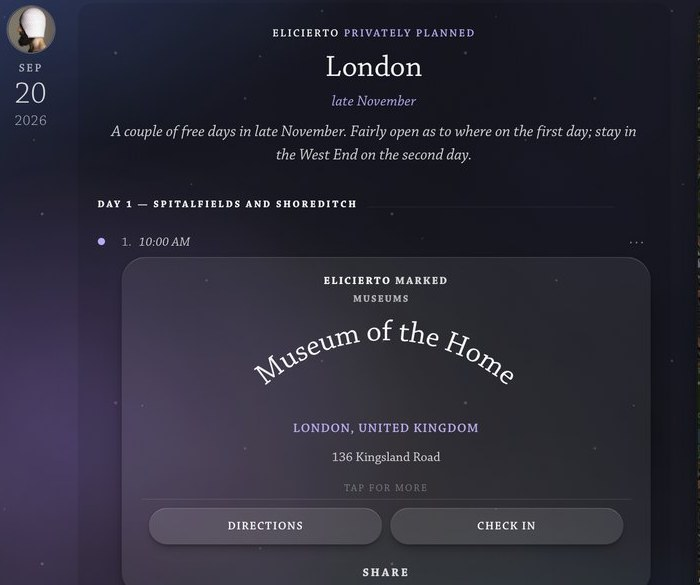
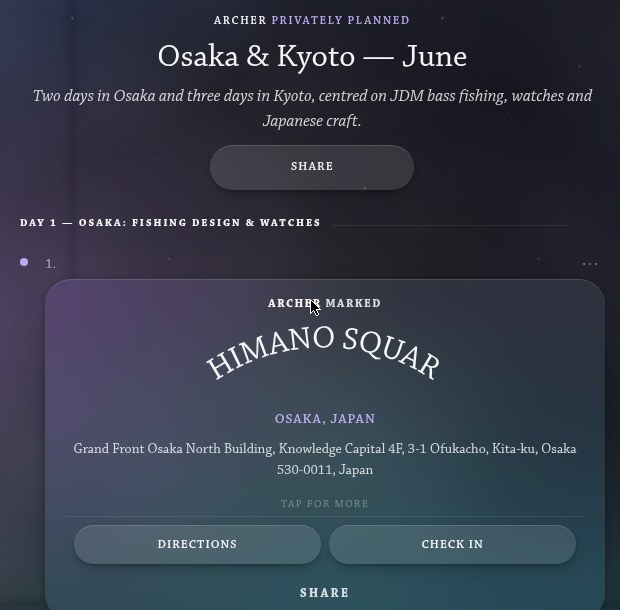
v2.89.3 New application screenshots (display name updated); feature crops for How it works
Home and itinerary frames from the new captures (1920x1000, light and
dark). How it works: a view per step from the captures: a note, the HEX Bar
mark (narrow), its check-in, the collections row, the Osaka plan and its
map, and the feed receipt for Verify. Use with AI: the two conversation
phones, then the itinerary frame; the old profile and app phones (old
handle) are no longer used.

Claude-Session: https://claude.ai/code/session_018DEGHuRrXjKAnbKpA7jEC5

diff --git a/public-pages.js b/public-pages.js
@@ -109,7 +109,7 @@ function create(d) {
   <p class="splash-sub pub-prop-1">${esc(C.site.proposition[0])}</p>
   <p class="pub-splash-acts">${me ? '<a class="btn splash-enter" href="/">Open Discriminantly</a>' : '<a class="btn splash-enter" href="/join">Get started</a>'}<a class="link caps pub-see" href="/how-it-works">See how it works</a></p>
 </section>
-${frame(shot('/welcome-shot-modern-light.jpg', '/welcome-shot-modern-dark.jpg', 'Discriminantly on the desktop: the All feed, with notes, travel marks and a plan', 2000, 1174))}
+${frame(shot('/welcome-shot-modern-light.jpg', '/welcome-shot-modern-dark.jpg', 'Discriminantly on the desktop: the All feed, with notes, travel marks and what an AI just added', 1920, 1000))}
 
 <section class="pub-sec pub-keep" id="keep" aria-labelledby="keep-h">
   ${eyebrow('What you keep')}
@@ -143,7 +143,7 @@ ${sec('together', 'Plan together', 'Share a plan, or build one with others.', `
     <div><h3 class="pub-h3">${esc(C.together.collaborate.title)}</h3><p class="pub-p">An invitation adds someone to the same plan, as editor or viewer. Every change is recorded under who made it.</p></div>
   </div>
   <p class="pub-rule-line">Your notes, visits, warrants and private records stay yours. ${esc(C.together.disclosure)}</p>
-  ${frame(shot('/welcome-shot-itin-light.jpg', '/welcome-shot-itin-dark.jpg', 'An itinerary in Discriminantly, with its map and the travel marks near it', 2000, 1174), 'splash-shot-2 pub-frame-2')}`, 'itin-shell pub-shell')}
+  ${frame(shot('/welcome-shot-itin-light.jpg', '/welcome-shot-itin-dark.jpg', 'An itinerary in Discriminantly, with its map and the travel marks near it', 1920, 1000), 'splash-shot-2 pub-frame-2')}`, 'itin-shell pub-shell')}
 
 ${sec('ai', 'Use it with AI', 'The same record, from the AI you already use.', `
   <p class="pub-p">Connect it; revoke it any time. What it adds appears here, recorded as that assistant acting for you.</p>
@@ -187,14 +187,14 @@ ${sec('ai', 'Use it with AI', 'The same record, from the AI you already use.', `
     };
     const tile = (kind, title, meta, lines) => `<figure class="pub-shot pub-shot-tile"><div class="pub-demo-tile pub-demo-app"><span class="lbl">${kind}</span><span class="pub-demo-title">${title}</span><span class="pub-demo-meta">${meta}</span>${lines.map((l) => `<span class="pub-demo-why">${l}</span>`).join('')}</div><figcaption class="welcome-caption">Illustrative example</figcaption></figure>`;
     const visuals = {
-      1: tile('Note', 'Hagi teabowl, Yamane kiln', 'Kept 4 March', ['Soft glaze, a lip that pours well. From a small kiln we found by chance.']),
-      2: shot('locate', 'A travel mark in the feed: Penicillin, a bar in Central, Hong Kong, with its address and Directions and Check in buttons', 500, 360),
-      3: shot('experience', 'A travel mark card with its Check in button', 1000, 345),
-      4: tile('Collection', 'Kyoto', '2 travel marks · 1 note', ['Kissa Hoshikawa', 'Gojozaka pottery walk', 'Hagi teabowl, Yamane kiln']),
-      5: shot('compose', 'An itinerary for London: Day 1, Spitalfields and Shoreditch, with its first stops', 700, 585),
-      6: shot('together', 'The same plan’s map, every stop pinned', 690, 680),
+      1: shot('notice', 'A note: a pour-over kettle, with the member’s reason for keeping it, its tags and a link', 630, 615),
+      2: shot('locate', 'A travel mark: HEX Bar in Bangkok, with its photo, address, tags, and Directions and Check in buttons', 630, 720),
+      3: shot('experience', 'A check-in on that mark: the date, and what the member said about the visit', 465, 280),
+      4: shot('organize', 'A row of collections, each with its count: bass fishing, coffee, culinary, fly fishing, fragrance, golf', 1450, 190),
+      5: shot('compose', 'An itinerary, Osaka and Kyoto in June: Day 1 and its first stop', 620, 610),
+      6: shot('together', 'The same plan’s map, every stop pinned', 710, 700),
       7: `<figure class="pub-shot pub-shot-phone"><span class="phone-body"><span class="phone-shadow"></span><span class="phone"><span class="phone-notch"></span><img src="/how/ai.jpg" alt="A trip planned in a conversation with an AI, from places kept in Discriminantly" width="900" height="1150" loading="lazy"></span></span><figcaption class="welcome-caption">From a conversation</figcaption></figure>`,
-      8: tile('History', 'Kissa Hoshikawa', 'What changed, and who changed it', ['Kept — you, 5 March', 'Address and map position looked up — Discriminantly, 5 March', 'Added to “Kyoto, two slow days” — Muse, for you, 2 November', 'Suggested: an evening counter nearby — recommendation, not kept']),
+      8: shot('verify', 'The feed’s receipt after an AI session: added through ChatGPT, one thing kept, with a link to view it', 1050, 340),
     };
     const body = `
 <section class="pub-sec pub-shell-plain" id="progression" aria-label="The progression">
@@ -234,13 +234,13 @@ ${sec('not', 'What a mark does not prove', 'Keeping is not going.', `<ul class="
   // The hub routes; it does not repeat the steps. Each platform has its own page.
   function aiHub(req, res, me) {
     const sk = skinOf(me, req), md = modeOf(me, req);
-    const pick = (light, dark, alt) => sk !== 'modern' ? `<img src="${dark}" alt="${alt}" width="900" height="1845" loading="lazy">`
-      : md === 'light' ? `<img src="${light}" alt="${alt}" width="900" height="1845" loading="lazy">`
-      : md === 'dark' ? `<img src="${dark}" alt="${alt}" width="900" height="1845" loading="lazy">`
-      : `<picture><source srcset="${light}" media="(prefers-color-scheme: light)"><img src="${dark}" alt="${alt}" width="900" height="1845" loading="lazy"></picture>`;
+    const pick = (light, dark, alt) => sk !== 'modern' ? `<img src="${dark}" alt="${alt}" width="1920" height="1000" loading="lazy">`
+      : md === 'light' ? `<img src="${light}" alt="${alt}" width="1920" height="1000" loading="lazy">`
+      : md === 'dark' ? `<img src="${dark}" alt="${alt}" width="1920" height="1000" loading="lazy">`
+      : `<picture><source srcset="${light}" media="(prefers-color-scheme: light)"><img src="${dark}" alt="${alt}" width="1920" height="1000" loading="lazy"></picture>`;
     const phone = (img, cap) => `<figure class="phone-wrap"><span class="phone-body"><span class="phone-shadow"></span><span class="phone"><span class="phone-notch"></span>${img}</span></span><figcaption class="welcome-caption">${cap}</figcaption></figure>`;
-    const pair1 = `<div class="phones">${phone(pick('/welcome-phone-profile-light.jpg', '/welcome-phone-profile-dark.jpg', 'A Discriminantly profile: the member\u2019s notes, travel marks and plans'), 'Your record, in Discriminantly')}${phone(`<img src="/welcome-phone-ask.jpg" alt="Asking an AI to plan a trip from what is kept in Discriminantly" width="900" height="1845" loading="lazy">`, 'Asked for, in a conversation')}</div>`;
-    const pair2 = `<div class="phones">${phone(`<img src="/welcome-phone-chat.jpg" alt="A trip planned in a conversation with an AI" width="900" height="1845" loading="lazy">`, 'Planned in conversation')}${phone(pick('/welcome-phone-app-light.jpg', '/welcome-phone-app-dark.jpg', 'The same day as an itinerary in Discriminantly'), 'Saved in Discriminantly')}</div>`;
+    const pair1 = `<div class="phones">${phone(`<img src="/welcome-phone-ask.jpg" alt="Asking an AI to plan a trip from what is kept in Discriminantly" width="900" height="1845" loading="lazy">`, 'Asked for, in a conversation')}${phone(`<img src="/welcome-phone-chat.jpg" alt="A trip planned in a conversation with an AI" width="900" height="1845" loading="lazy">`, 'Planned in conversation')}</div>`;
+    const pair2 = `<div class="shot-wrap splash-shot-2"><div class="shot-shadow"></div><div class="shot-frame"><div class="shot-chrome"><span></span><span></span><span></span></div>${pick('/welcome-shot-itin-light.jpg', '/welcome-shot-itin-dark.jpg', 'The same plan saved in Discriminantly, with its map')}</div></div><p class="welcome-caption">Saved in Discriminantly</p>`;
     const body = `
 <section class="pub-sec itin-shell pub-shell splash-pair" id="useful" aria-labelledby="useful-h">
   <p class="splash-pair-lead" id="useful-h">What you keep becomes useful.</p>

diff --git a/public/style.shared.css b/public/style.shared.css
@@ -1738,3 +1738,6 @@ body.is-public:not(.is-in) { padding-top: 0; }
   .pub-keep-grid { grid-template-columns: 1fr 1fr; gap: 1.2rem 1rem; }
   .pub-demo-grid, .pub-cols2, .pub-defs-grid { grid-template-columns: 1fr; }
 }
+.pub-prog-visual .pub-prog-step:nth-child(4) .pub-shot, .pub-prog-visual .pub-prog-step:nth-child(8) .pub-shot { max-width: 100%; }
+.pub-prog-visual .pub-prog-step:nth-child(4), .pub-prog-visual .pub-prog-step:nth-child(8) { grid-template-columns: 1fr; }
+.pub-prog-visual .pub-prog-step:nth-child(8) .pub-prog-text { order: 0; }
